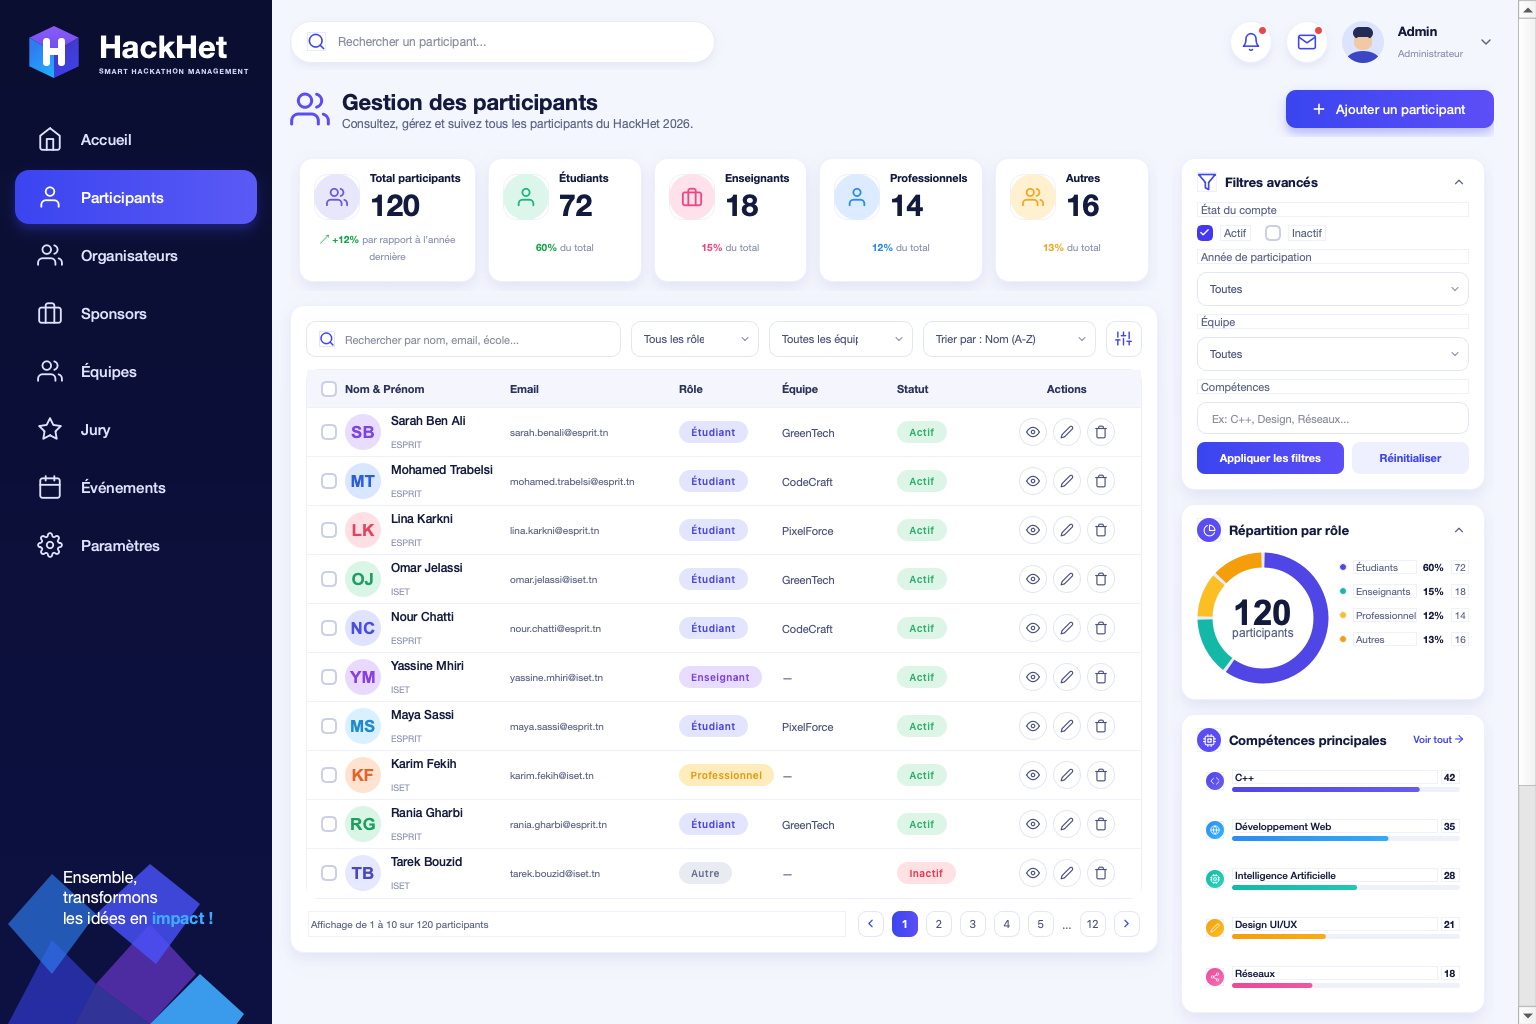
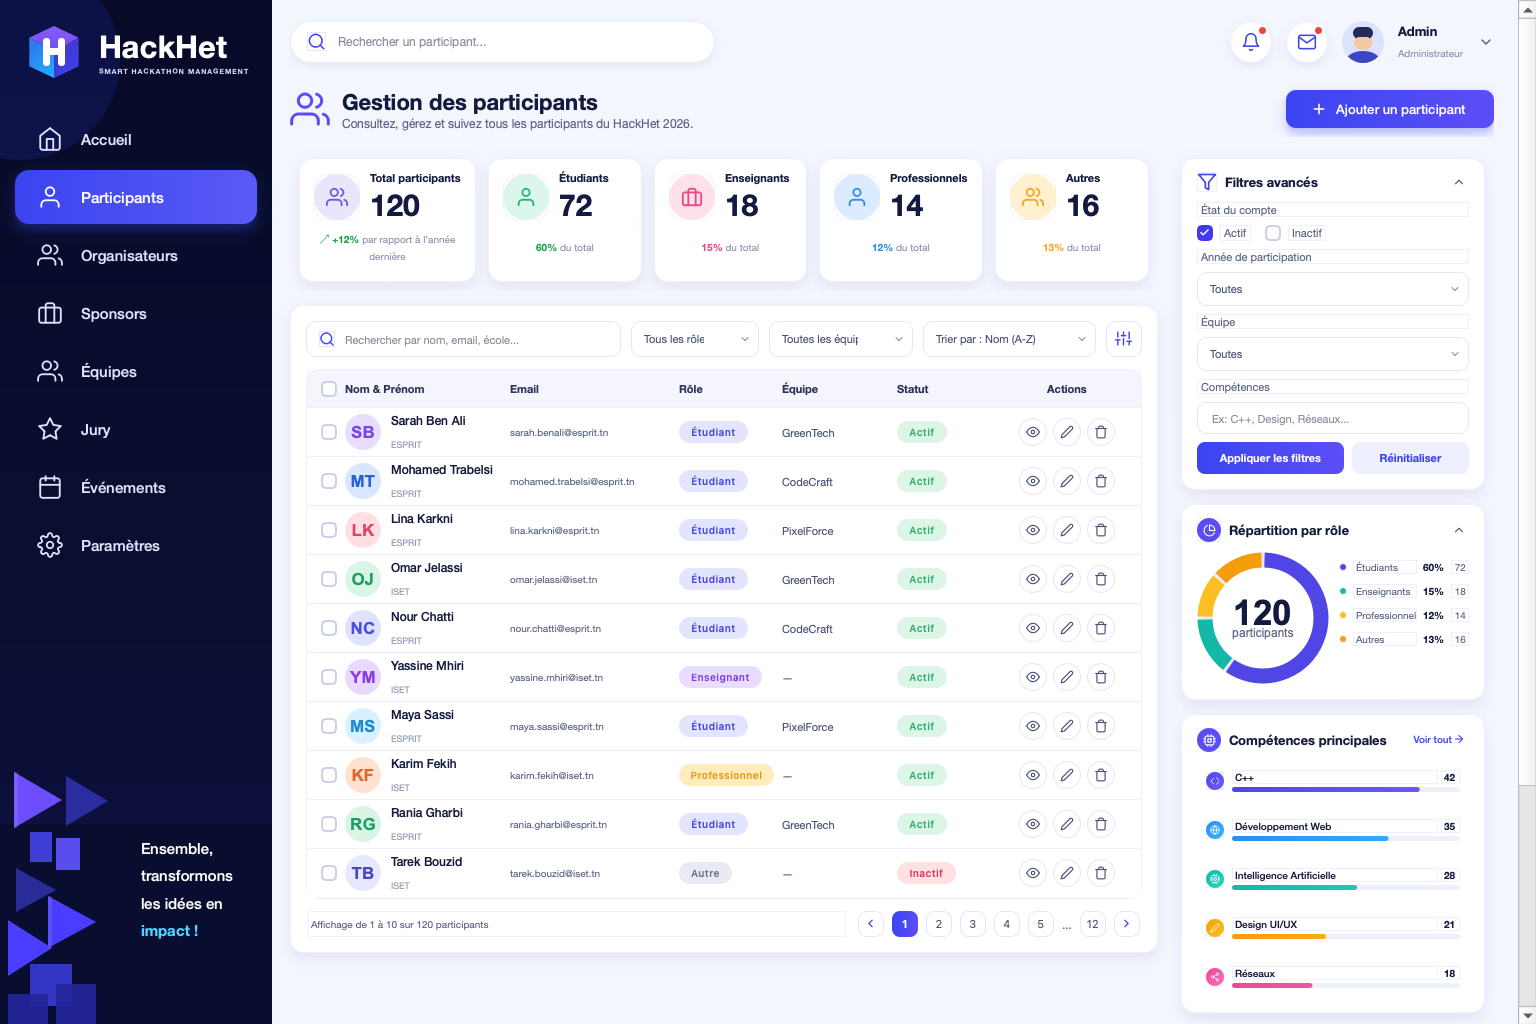
Sidebar deco: crystalline mosaic strip like reference, text clear on right

Changed region(s): [[0.0, 0.75, 0.1562, 1.0]]

diff --git a/hackhet_dashboard.py b/hackhet_dashboard.py
@@ -526,13 +526,14 @@ class Sidebar(QWidget):
             self.buttons[key] = (btn, ic, lab, icon)
         root.addStretch(1)
         tag = QLabel(
-            '<div style="color:#ffffff; font-size:16px; font-family:%s;">'
-            'Ensemble,<br/>transformons<br/>les id\u00e9es en <b style="color:#3fa9ff;">impact !</b></div>' % FONT_STACK
+            '<div style="color:#ffffff; font-size:15px; font-weight:600; line-height:1.45; font-family:%s;">'
+            'Ensemble,<br/>transformons<br/>les id\u00e9es en <b style="color:#4fd2ff;">impact !</b></div>' % FONT_STACK
         )
-        tag.setContentsMargins(48, 0, 0, 0)
+        tag.setContentsMargins(126, 0, 8, 0)
         tag.setAttribute(Qt.WA_TranslucentBackground, True)
+        tag.setWordWrap(True)
         root.addWidget(tag)
-        root.addSpacing(86)
+        root.addSpacing(64)
         self.refresh()
 
     def set_active(self, key):
@@ -567,21 +568,35 @@ class Sidebar(QWidget):
         p = QPainter(self)
         p.setRenderHint(QPainter.Antialiasing, True)
         g = QLinearGradient(0, 0, 0, self.height())
-        g.setColorAt(0, QColor("#0a0e30"))
+        g.setColorAt(0, QColor("#070b28"))
+        g.setColorAt(0.55, QColor("#0a0e30"))
         g.setColorAt(1, QColor("#0d1142"))
         p.fillRect(self.rect(), g)
         h = self.height()
-        w = self.width()
-        polys = [
-            ([(8, 0), (52, -84), (96, -40), (52, 44)], "#3b44f0", 140),
-            ([(52, 44), (96, -40), (150, 0), (106, 84)], "#5a5af5", 120),
-            ([(96, -40), (150, -100), (196, -50), (150, 0)], "#7b3fe4", 150),
-            ([(8, -100), (52, -150), (96, -110), (52, -50)], "#2f7bf0", 170),
-            ([(96, -110), (150, -160), (200, -120), (156, -60)], "#4a54ff", 200),
-            ([(150, 0), (200, -50), (244, -10), (200, 50)], "#3fa9ff", 230),
-        ]
         p.setPen(Qt.NoPen)
-        for pts, color, alpha in polys:
+        glow = QColor("#2b3bff")
+        glow.setAlpha(36)
+        p.setBrush(glow)
+        p.drawEllipse(QRect(-80, -40, 200, 200))
+        deep = QColor("#060a26")
+        deep.setAlpha(150)
+        p.setBrush(deep)
+        p.drawRect(QRect(0, h - 200, self.width(), 200))
+        shapes = [
+            ([(14, -252), (14, -196), (62, -224)], "#6d4dff", 255),
+            ([(66, -248), (66, -198), (108, -223)], "#2e2fa8", 235),
+            ([(30, -192), (52, -192), (52, -162), (30, -162)], "#3d3fd6", 255),
+            ([(56, -186), (80, -186), (80, -154), (56, -154)], "#5a4df0", 255),
+            ([(16, -156), (16, -112), (56, -134)], "#2b2f9e", 235),
+            ([(48, -128), (48, -76), (96, -102)], "#4b3dff", 255),
+            ([(8, -104), (8, -48), (52, -76)], "#4b3dff", 255),
+            ([(30, -60), (72, -60), (72, -18), (30, -18)], "#3335c4", 255),
+            ([(56, -40), (96, -40), (96, 2), (56, 2)], "#23259b", 235),
+            ([(8, -30), (48, -30), (48, 12), (8, 12)], "#23259b", 235),
+            ([(24, 8), (84, 8), (18, 68)], "#4b3dff", 255),
+            ([(58, 26), (94, 26), (94, 62), (58, 62)], "#3a36c2", 255),
+        ]
+        for pts, color, alpha in shapes:
             c = QColor(color)
             c.setAlpha(alpha)
             path = QPainterPath()
@@ -590,7 +605,12 @@ class Sidebar(QWidget):
                 path.lineTo(x, h + y)
             path.closeSubpath()
             p.fillPath(path, c)
-        _ = w
+        hi = QColor("#ffffff")
+        hi.setAlpha(26)
+        p.setBrush(hi)
+        p.drawRect(QRect(14, h - 252, 4, 56))
+        p.drawRect(QRect(48, h - 128, 4, 52))
+        _ = self.width()
 
 class TopBar(QWidget):
     def __init__(self, on_search, parent=None):
